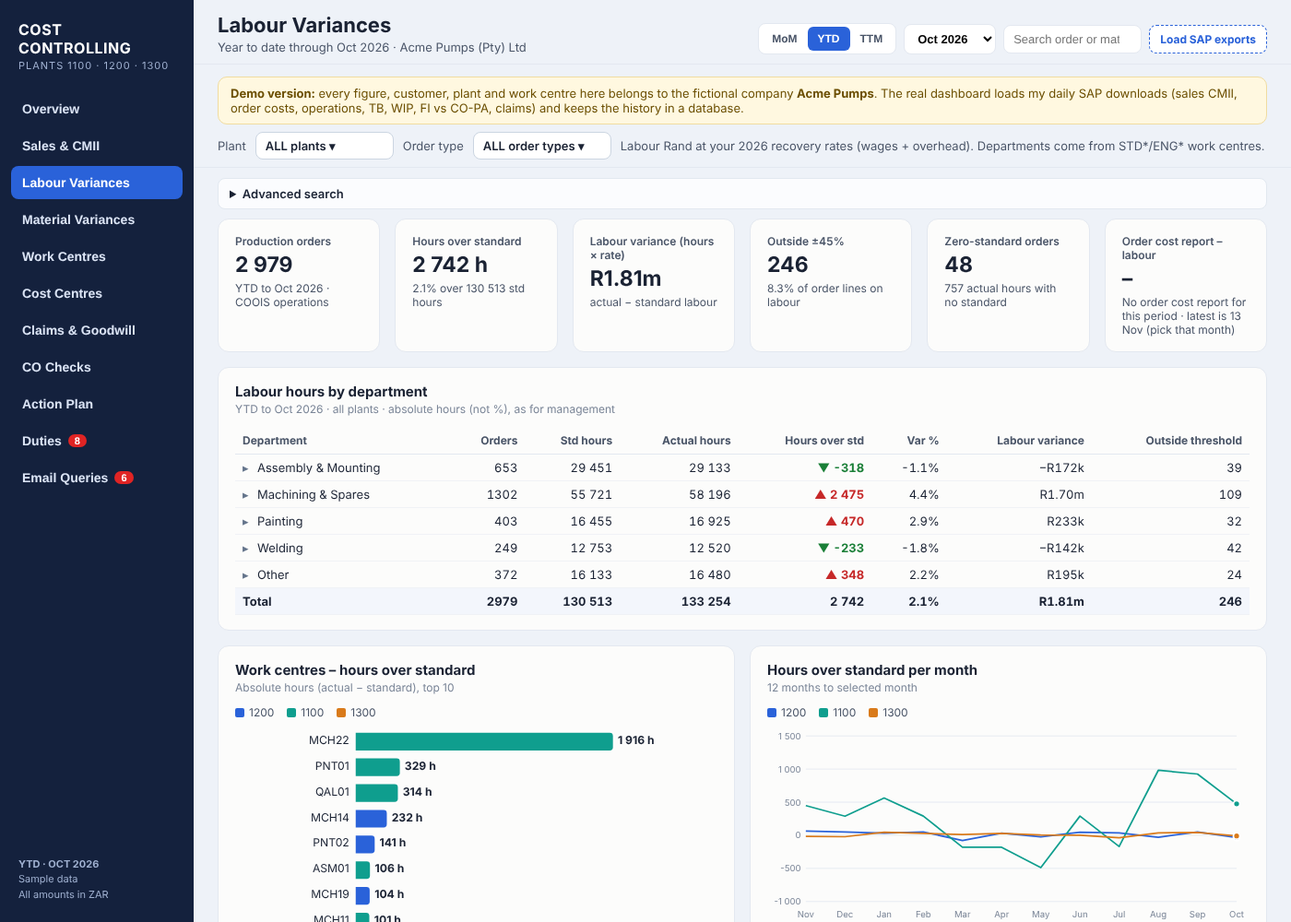
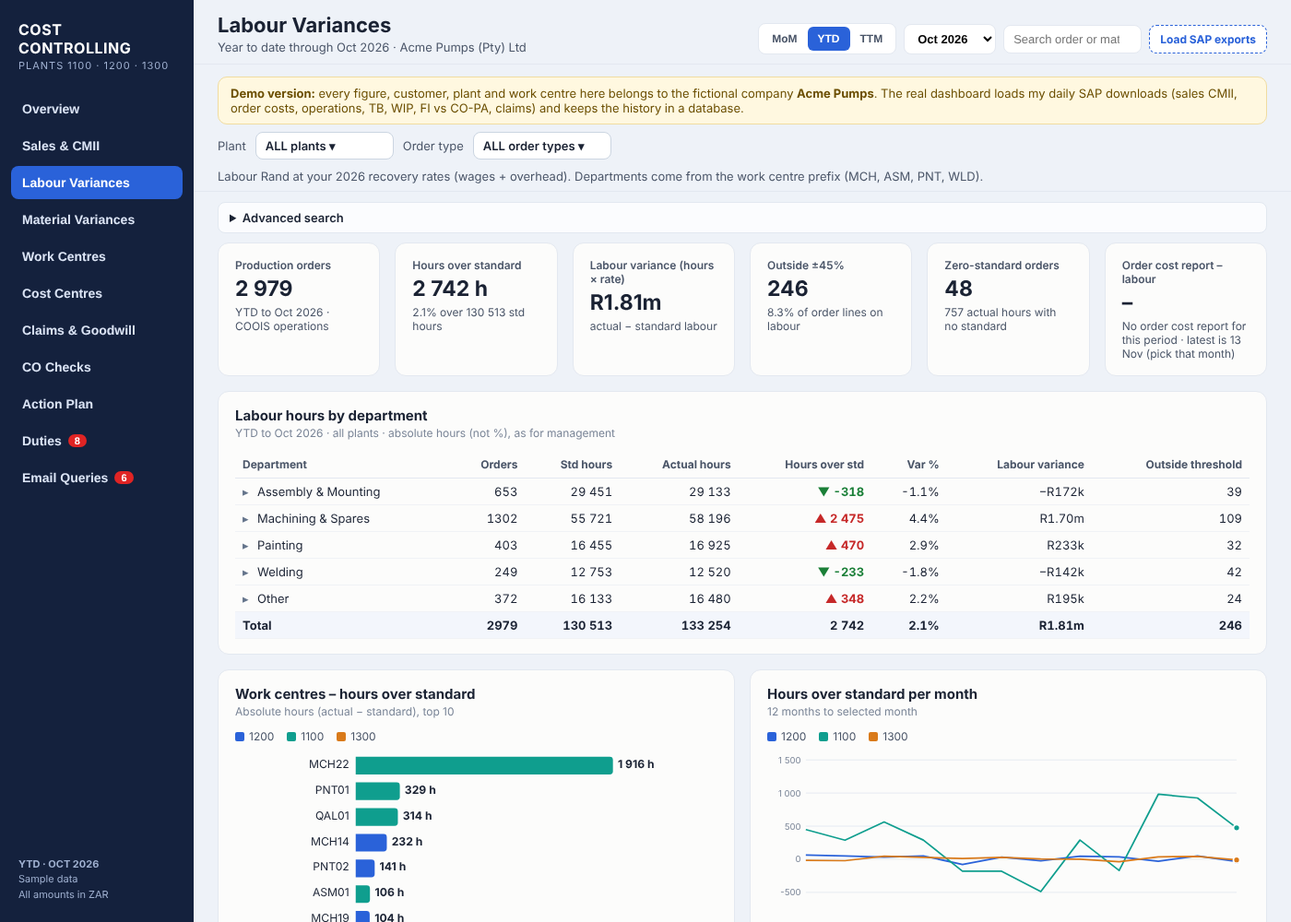
Add files via upload

diff --git a/index.html b/index.html
@@ -1,0 +1,268 @@
+<!DOCTYPE html>
+<html lang="en">
+<head>
+<meta charset="utf-8">
+<meta name="viewport" content="width=device-width, initial-scale=1">
+<title>Aphelele Makhathini | Cost Accounting Automation Portfolio</title>
+<meta name="description" content="SAP-to-Excel automation for cost accounting: production variances, warranty claims, BOM costing, sales margin and a live cost controlling dashboard. All data fictional.">
+<link rel="preconnect" href="https://fonts.googleapis.com">
+<link href="https://fonts.googleapis.com/css2?family=Inter:wght@400;500;600;700;800&display=swap" rel="stylesheet">
+<style>
+:root{--navy:#14213d;--navy2:#1f3a5f;--blue:#2a62d9;--teal:#0f9e8e;--ink:#1a2233;--mute:#5b6678;--line:#e3e8f0;--bg:#f5f7fb;--card:#fff}
+*{box-sizing:border-box;margin:0;padding:0}
+html{scroll-behavior:smooth}
+body{font-family:Inter,system-ui,-apple-system,Segoe UI,Roboto,sans-serif;color:var(--ink);background:var(--bg);line-height:1.6}
+a{color:var(--blue);text-decoration:none}
+.wrap{max-width:1120px;margin:0 auto;padding:0 24px}
+nav{position:sticky;top:0;z-index:10;background:rgba(20,33,61,.96);backdrop-filter:blur(6px)}
+nav .wrap{display:flex;align-items:center;justify-content:space-between;height:60px}
+nav .brand{color:#fff;font-weight:700;letter-spacing:.2px}
+nav .links a{color:#c9d3e6;margin-left:22px;font-size:14px;font-weight:500}
+nav .links a:hover{color:#fff}
+header.hero{background:linear-gradient(135deg,var(--navy) 0%,var(--navy2) 60%,#24508f 100%);color:#fff;padding:84px 0 72px}
+.hero .eyebrow{text-transform:uppercase;letter-spacing:2px;font-size:12.5px;color:#9fb4d9;font-weight:600}
+.hero h1{font-size:46px;line-height:1.1;font-weight:800;margin:14px 0 10px}
+.hero .role{font-size:19px;color:#dbe4f5;font-weight:500}
+.hero p.lead{max-width:720px;margin-top:22px;font-size:17px;color:#d0daee}
+.badges{display:flex;flex-wrap:wrap;gap:8px;margin-top:26px}
+.badge{background:rgba(255,255,255,.1);border:1px solid rgba(255,255,255,.18);color:#e8eefb;font-size:13px;padding:6px 12px;border-radius:999px}
+.ctas{display:flex;flex-wrap:wrap;gap:12px;margin-top:34px}
+.btn{display:inline-flex;align-items:center;gap:8px;padding:12px 20px;border-radius:10px;font-weight:600;font-size:15px;transition:transform .15s,box-shadow .15s}
+.btn:hover{transform:translateY(-1px)}
+.btn.primary{background:#fff;color:var(--navy);box-shadow:0 6px 20px rgba(0,0,0,.18)}
+.btn.ghost{border:1px solid rgba(255,255,255,.35);color:#fff}
+.btn.dark{background:var(--navy);color:#fff}
+.btn.line{border:1px solid var(--line);color:var(--ink);background:#fff}
+.stats{display:grid;grid-template-columns:repeat(4,1fr);gap:16px;margin-top:-34px;position:relative}
+.stat{background:var(--card);border:1px solid var(--line);border-radius:14px;padding:18px 20px;box-shadow:0 8px 24px rgba(20,33,61,.06)}
+.stat b{display:block;font-size:23px;font-weight:800;color:var(--navy)}
+.stat span{font-size:13.5px;color:var(--mute)}
+section{padding:72px 0 8px}
+.sh{display:flex;align-items:end;justify-content:space-between;gap:20px;margin-bottom:26px}
+.sh h2{font-size:30px;font-weight:800;color:var(--navy)}
+.sh p{color:var(--mute);max-width:620px}
+.kicker{color:var(--blue);font-weight:700;font-size:13px;letter-spacing:1.5px;text-transform:uppercase;margin-bottom:6px}
+.feature{display:grid;grid-template-columns:1.25fr 1fr;gap:30px;background:var(--card);border:1px solid var(--line);border-radius:18px;padding:26px;box-shadow:0 10px 30px rgba(20,33,61,.07)}
+.feature img{width:100%;border-radius:12px;border:1px solid var(--line);display:block}
+.feature h3{font-size:24px;color:var(--navy);margin-bottom:8px}
+.feature ul{list-style:none;margin:16px 0 22px}
+.feature li{padding:6px 0 6px 26px;position:relative;font-size:15px}
+.feature li:before{content:"";position:absolute;left:4px;top:13px;width:8px;height:8px;border-radius:2px;background:var(--teal)}
+.thumbs{display:grid;grid-template-columns:repeat(3,1fr);gap:10px;margin-top:12px}
+.thumbs img{border-radius:8px}
+.grid{display:grid;grid-template-columns:repeat(2,1fr);gap:22px}
+.card{background:var(--card);border:1px solid var(--line);border-radius:16px;overflow:hidden;display:flex;flex-direction:column;box-shadow:0 6px 18px rgba(20,33,61,.05);transition:box-shadow .2s,transform .2s}
+.card:hover{box-shadow:0 14px 34px rgba(20,33,61,.11);transform:translateY(-2px)}
+.card .shot{height:210px;overflow:hidden;background:#eef2f8;border-bottom:1px solid var(--line)}
+.card .shot img{width:100%;height:100%;object-fit:cover;object-position:top left;display:block}
+.card .body{padding:20px 22px 22px;display:flex;flex-direction:column;flex:1}
+.card .num{font-size:12.5px;font-weight:700;color:var(--blue);letter-spacing:1px}
+.card h3{font-size:20px;color:var(--navy);margin:2px 0 10px}
+.card .lbl{font-size:12px;font-weight:700;text-transform:uppercase;letter-spacing:.8px;color:var(--mute);margin-top:10px}
+.card p{font-size:14.5px}
+.card ul{margin:4px 0 0 18px;font-size:14.5px}
+.card .result{margin-top:14px;background:#eefaf7;border:1px solid #c7ece4;color:#0b6b60;border-radius:10px;padding:10px 12px;font-size:14px}
+.tags{display:flex;flex-wrap:wrap;gap:6px;margin-top:14px}
+.tag{font-size:12px;background:#eef2f8;color:#36445c;padding:3px 9px;border-radius:6px;font-weight:500}
+.card .links{margin-top:auto;padding-top:16px;display:flex;gap:10px}
+.card .links a{font-size:14px;font-weight:600}
+.skills{display:grid;grid-template-columns:repeat(3,1fr);gap:18px}
+.skill{background:var(--card);border:1px solid var(--line);border-radius:14px;padding:20px}
+.skill h4{color:var(--navy);font-size:16px;margin-bottom:8px}
+.skill p{font-size:14.5px;color:#3b4659}
+.note{margin-top:60px;background:#fff7e0;border:1px solid #f1dc9c;border-radius:14px;padding:18px 22px;font-size:14.5px;color:#5a4a12}
+footer{margin-top:60px;padding:30px 0 40px;color:var(--mute);font-size:14px;border-top:1px solid var(--line)}
+footer .wrap{display:flex;justify-content:space-between;flex-wrap:wrap;gap:12px}
+@media (max-width:860px){
+ .hero h1{font-size:34px}.stats{grid-template-columns:repeat(2,1fr)}.feature{grid-template-columns:1fr}
+ .grid,.skills{grid-template-columns:1fr}nav .links a{margin-left:14px}.sh{display:block}.sh p{margin-top:6px}
+}
+@media (max-width:520px){nav .links a:not(.keep){display:none}}
+</style>
+</head>
+<body>
+<nav><div class="wrap">
+ <a class="brand" href="#">Aphelele Makhathini</a>
+ <div class="links"><a href="#dashboard">Dashboard</a><a href="#projects">Projects</a><a href="#skills">Skills</a>
+ <a class="keep" href="https://github.com/aphelelemakhathini21-beep/Cost-Accounting-Portfolio">GitHub</a></div>
+</div></nav>
+
+<header class="hero"><div class="wrap">
+ <div class="eyebrow">Cost Accounting · Controlling · Automation</div>
+ <h1>Aphelele Makhathini</h1>
+ <div class="role">Cost Accountant Controller &nbsp;|&nbsp; SAP · Excel VBA · AI</div>
+ <p class="lead">I work in manufacturing finance, and much of my month runs on SAP exports. I build tools that turn those exports into reports production, management and Industrial Engineering can act on: variance analysis, warranty claims, product costing and margin reporting, from raw download to finished report. Work that used to take hours, or a whole day, now runs in minutes.</p>
+ <div class="badges">
+  <span class="badge">BCom Accounting (UJ)</span><span class="badge">FMVA</span><span class="badge">BIDA</span><span class="badge">FPAP</span>
+  <span class="badge">Google Data Analytics</span><span class="badge">RE5</span><span class="badge">Xero</span>
+ </div>
+ <div class="ctas">
+  <a class="btn primary" href="06-cost-controlling-dashboard/">▶&nbsp; Launch the live dashboard</a>
+  <a class="btn ghost" href="#projects">See the projects</a>
+  <a class="btn ghost" href="https://github.com/aphelelemakhathini21-beep/Cost-Accounting-Portfolio">View the code</a>
+ </div>
+</div></header>
+
+<div class="wrap">
+ <div class="stats">
+  <div class="stat"><b>1 day → 10 min</b><span>production variance analysis</span></div>
+  <div class="stat"><b>4 h → 5 min</b><span>monthly claims reporting</span></div>
+  <div class="stat"><b>2 h → 10 min</b><span>sales report, per market area</span></div>
+  <div class="stat"><b>5 min</b><span>SAP script downloads every report the dashboard needs</span></div>
+ </div>
+
+ <section id="dashboard">
+  <div class="sh"><div><div class="kicker">Featured</div><h2>Cost Controlling Dashboard</h2></div>
+  <p>One page for the whole month: it reads the daily SAP downloads directly and shows where the month stands and what needs attention.</p></div>
+  <div class="feature">
+   <div>
+    <a href="06-cost-controlling-dashboard/"><img src="06-cost-controlling-dashboard/screenshots/1-overview.png" alt="Dashboard overview"></a>
+    <div class="thumbs">
+     <img src="06-cost-controlling-dashboard/screenshots/4-work-centres.png" alt="Work centres tab">
+     <img src="06-cost-controlling-dashboard/screenshots/5-claims-goodwill.png" alt="Claims and goodwill tab">
+     <img src="06-cost-controlling-dashboard/screenshots/6-co-checks.png" alt="CO checks tab">
+    </div>
+   </div>
+   <div>
+    <h3>Every report in one place</h3>
+    <p>HTML and JavaScript, with SheetJS to read Excel and text files in the browser. Drop in the morning's downloads and it works out which file is which.</p>
+    <ul>
+     <li>Sales and CMII by market area, channel and segment, with losses and partial invoicing flagged</li>
+     <li>Labour and material variances by department and work centre</li>
+     <li>Work centre efficiency, with machining vs setup hours by week</li>
+     <li>Warranty and goodwill claims against turnover</li>
+     <li>CO checks: invoices hanging between FI and CO-PA, and TB vs WIP</li>
+     <li>Month-end duties with due-date reminders, plus an email query tracker</li>
+     <li>Commentary drafted automatically from the numbers</li>
+     <li>All of its SAP exports are downloaded by a 5-minute SAP GUI script</li>
+    </ul>
+    <a class="btn dark" href="06-cost-controlling-dashboard/">▶&nbsp; Open the live demo</a>
+   </div>
+  </div>
+ </section>
+
+ <section id="projects">
+  <div class="sh"><div><div class="kicker">Automation</div><h2>Excel VBA projects</h2></div>
+  <p>Each project contains the macro, a fake SAP-style export to run it on (the before), the workbook it produces (the after) and a write-up.</p></div>
+  <div class="grid">
+
+   <article class="card">
+    <div class="shot"><img src="01-production-variances/output/2-stage2-popup-1-setup.png" alt="Hours variance overview"></div>
+    <div class="body">
+     <div class="num">01</div><h3>Production Variances</h3>
+     <div class="lbl">Problem</div>
+     <p>Hundreds of orders close with labour and material off standard. Management needs to know which orders matter, and the workshop needs to know which operation on which machine caused it.</p>
+     <div class="lbl">What I built</div>
+     <ul><li>Stage 1 flags orders outside ±45% labour and ±20% material</li>
+     <li>Stage 2 compares planned vs confirmed hours per operation, with department tabs and favourable variances</li>
+     <li>A live overview with a plant slicer and dynamic-array Top 5 and Top 10 tables. Remarks survive a re-run.</li></ul>
+     <div class="result"><b>A whole day of compiling → 10 minutes.</b> Demo: 80 labour and 63 material orders flagged. MCH19 runs +2.9 h over on setup per operation, which points to a missing setup standard.</div>
+     <div class="tags"><span class="tag">VBA</span><span class="tag">LET / FILTER / SORTBY</span><span class="tag">Slicers</span><span class="tag">Pivot tables</span></div>
+     <div class="links"><a href="https://github.com/aphelelemakhathini21-beep/Cost-Accounting-Portfolio/tree/main/01-production-variances">Code &amp; data →</a></div>
+    </div>
+   </article>
+
+   <article class="card">
+    <div class="shot"><img src="02-warranty-claims/output/1-claims-register-october-posted.png" alt="Claims register after posting October"></div>
+    <div class="body">
+     <div class="num">02</div><h3>Warranty &amp; Goodwill Claims</h3>
+     <div class="lbl">Problem</div>
+     <p>A messy monthly claims export (outline blanks, subtotals mixed with detail lines) has to be posted into a year-to-date register without double-counting anything.</p>
+     <div class="lbl">What I built</div>
+     <ul><li>Step 1 cleans the export and builds a one-line-per-order summary</li>
+     <li>Step 2 splits warranty from goodwill, updates existing orders and inserts new ones above the Total row</li>
+     <li>It rebuilds the YTD and total formulas, moves the graph to the new month, and is safe to re-run</li></ul>
+     <div class="result"><b>4 hours of compiling → 5 minutes.</b> Demo: 18 orders, R566 069 posted. 4 updated and 8 new warranty orders, 2 updated and 4 new goodwill orders.</div>
+     <div class="tags"><span class="tag">VBA</span><span class="tag">Data cleaning</span><span class="tag">Ledgers</span></div>
+     <div class="links"><a href="https://github.com/aphelelemakhathini21-beep/Cost-Accounting-Portfolio/tree/main/02-warranty-claims">Code &amp; data →</a></div>
+    </div>
+   </article>
+
+   <article class="card">
+    <div class="shot"><img src="03-bom-costing/output/1-bom-built.png" alt="Costed BOM built from CK11N"></div>
+    <div class="body">
+     <div class="num">03</div><h3>Costed BOM from CK11N</h3>
+     <div class="lbl">Problem</div>
+     <p>A cost estimate export shows its hierarchy only by indentation, with numbers as text. Costing and pricing questions need it as a clean structure that adds up.</p>
+     <div class="lbl">What I built</div>
+     <ul><li>Works out each line's depth from the layout and reads cost fields from the end of the row, so it handles BOMs of any depth</li>
+     <li>Live SUM and Price × Qty formulas across 8 cost-component columns, with collapsible levels</li>
+     <li>Checks every rollup against SAP's own totals</li></ul>
+     <div class="result">Demo: three pumps (R44 195 to R110 906), and every rollup matched SAP.</div>
+     <div class="tags"><span class="tag">VBA</span><span class="tag">Hierarchies of any depth</span><span class="tag">Product costing</span></div>
+     <div class="links"><a href="https://github.com/aphelelemakhathini21-beep/Cost-Accounting-Portfolio/tree/main/03-bom-costing">Code &amp; data →</a></div>
+    </div>
+   </article>
+
+   <article class="card">
+    <div class="shot"><img src="04-sales-margin/output/3-popup-3-margins.png" alt="Sales margin summary"></div>
+    <div class="body">
+     <div class="num">04</div><h3>Invoiced Sales Margin (CMII)</h3>
+     <div class="lbl">Problem</div>
+     <p>Management wants losses, margins by market area and segment, and progress against the month's target. Meanwhile, partial invoicing creates fake losses that distort every average.</p>
+     <div class="lbl">What I built</div>
+     <ul><li>A CMII table per order, with COGS built from 9 cost lines and internal adjustments excluded</li>
+     <li>Outliers (COGS 1000%+ of sales) left out of the averages</li>
+     <li>Five summary pop-ups, a hidden summary sheet with charts, and the rand needed per working day</li></ul>
+     <div class="result"><b>2 hours per market area → 10 minutes.</b> Demo: 240 orders, R47.8m invoiced, 8 losses, 79.7% of the monthly target.</div>
+     <div class="tags"><span class="tag">VBA</span><span class="tag">Margin analysis</span><span class="tag">Charts</span></div>
+     <div class="links"><a href="https://github.com/aphelelemakhathini21-beep/Cost-Accounting-Portfolio/tree/main/04-sales-margin">Code &amp; data →</a></div>
+    </div>
+   </article>
+
+   <article class="card">
+    <div class="shot"><img src="05-cost-element-breakdown/output/1-cost-element-detail.png" alt="Cost element breakdown"></div>
+    <div class="body">
+     <div class="num">05</div><h3>Sales Order Cost Breakdown</h3>
+     <div class="lbl">Problem</div>
+     <p>When an order's cost looks wrong, the answer is buried in a hard-to-read cost report: totals sit below their lines, credits carry trailing minus signs, and some totals include lines the report doesn't show.</p>
+     <div class="lbl">What I built</div>
+     <ul><li>Groups lines under each cost element with SUM subtotals and a grand total</li>
+     <li>Adds a reconciling line wherever a reported total is more than its visible lines</li>
+     <li>Shows the source report's own total underneath as a check</li></ul>
+     <div class="result"><b>30 minutes per request → 3 minutes.</b> Demo: 6 cost elements, a R312.40 reconciling line, and a grand total that agrees to the report.</div>
+     <div class="tags"><span class="tag">VBA</span><span class="tag">Reconciliation</span><span class="tag">Order costing</span></div>
+     <div class="links"><a href="https://github.com/aphelelemakhathini21-beep/Cost-Accounting-Portfolio/tree/main/05-cost-element-breakdown">Code &amp; data →</a></div>
+    </div>
+   </article>
+
+   <article class="card">
+    <div class="shot"><img src="06-cost-controlling-dashboard/screenshots/3-labour-variances.png" alt="Dashboard labour variances"></div>
+    <div class="body">
+     <div class="num">06</div><h3>Cost Controlling Dashboard</h3>
+     <div class="lbl">Problem</div>
+     <p>The daily and month-end picture was spread across a dozen downloads and workbooks.</p>
+     <div class="lbl">What I built</div>
+     <ul><li>A single-page web dashboard that reads the SAP downloads directly</li>
+     <li>11 tabs with month, YTD and 12-month views, plant, order type and market area filters, and an order or material search</li>
+     <li>Duties and email query tracking built in</li>
+     <li>A SAP GUI script that downloads every report the dashboard needs in 5 minutes</li></ul>
+     <div class="result"><b>Every SAP export it needs is downloaded by a 5-minute SAP script.</b> Runs live in the browser on Acme Pumps demo data.</div>
+     <div class="tags"><span class="tag">JavaScript</span><span class="tag">SheetJS</span><span class="tag">Data visualisation</span></div>
+     <div class="links"><a href="06-cost-controlling-dashboard/">Live demo →</a><a href="https://github.com/aphelelemakhathini21-beep/Cost-Accounting-Portfolio/tree/main/06-cost-controlling-dashboard">Code →</a></div>
+    </div>
+   </article>
+
+  </div>
+ </section>
+
+ <section id="skills">
+  <div class="sh"><div><div class="kicker">How I work</div><h2>What runs through every project</h2></div></div>
+  <div class="skills">
+   <div class="skill"><h4>Reading messy ERP exports</h4><p>Outline blanks stored as empty text, numbers as text in SAP formats (1.234,56 · 1 234,56 · trailing minus), title lines, encodings and hierarchies of any depth.</p></div>
+   <div class="skill"><h4>Rules management can follow</h4><p>Clear thresholds (±45% labour, ±20% material, 2 h and 1 h operation limits), control gaps reported separately, and outliers kept out of averages.</p></div>
+   <div class="skill"><h4>Workbooks that stay correct</h4><p>Formulas rebuilt by code, nothing tied to a fixed column letter, re-running a month replaces it instead of doubling it, and typed remarks are kept.</p></div>
+   <div class="skill"><h4>Live Excel</h4><p>LET, FILTER and SORTBY dynamic arrays, slicers driving named ranges, pivot tables, tables with total rows, and charts built from code.</p></div>
+   <div class="skill"><h4>Works on any regional settings</h4><p>Formulas, conditional formats and number parsing written so they work on comma-decimal and dot-decimal PCs.</p></div>
+   <div class="skill"><h4>AI-assisted development</h4><p>I use AI to design, build and test automation faster, and to create realistic demo data. The dashboard is a JavaScript web app.</p></div>
+  </div>
+  <div class="note"><b>About the data:</b> everything in this portfolio, including "Acme Pumps", its plants, customers, work centres, materials and every figure, is fictional and was generated for demonstration. The macros are my own work, with employer-specific names, codes and settings replaced.</div>
+ </section>
+</div>
+
+<footer><div class="wrap">
+ <span>© 2026 Aphelele Makhathini</span>
+ <span><a href="https://github.com/aphelelemakhathini21-beep/Cost-Accounting-Portfolio">Source on GitHub</a></span>
+</div></footer>
+</body>
+</html>

diff --git a/README.md b/README.md
@@ -13,6 +13,15 @@ I'm a Cost Accountant Controller in a pump and valve manufacturer. My month runs
 | 05 | [Cost element breakdown](05-cost-element-breakdown/) | Actual costs report → grouped cost elements with reconciling lines |
 | 06 | [Cost Controlling Dashboard](06-cost-controlling-dashboard/) | All the daily SAP downloads → one interactive dashboard (demo with screenshots) |
 
+## Time saved
+| Task | Before | After |
+|---|---|---|
+| Production variance analysis | A whole day of compiling | 10 minutes |
+| Monthly claims reporting | 4 hours | 5 minutes |
+| Sales report | 2 hours per market area | 10 minutes |
+| Sales order cost breakdown for a requester | 30 minutes | 3 minutes |
+| SAP downloads for the dashboard | Run one by one | One 5-minute SAP script |
+
 ## Techniques used across the projects
 - **Parsing messy ERP exports:** outline blanks stored as empty text, numbers as text in SAP's format (`1.234,56`, `1 234,56`, trailing minus), title lines, encodings, variable-depth hierarchies
 - **Rules management can follow:** ±45 % labour / ±20 % material bands, 2-hour / 1-hour / 50 % operation thresholds, partial-invoicing outliers left out of margin averages
@@ -27,4 +36,4 @@ I'm a Cost Accountant Controller in a pump and valve manufacturer. My month runs
 
 The README for each project lists the results you should get on the demo data.
 
-**Certifications:** FMVA · FPAP · Google Data Analytics · BCom Accounting (UJ)
+**Certifications:** FMVA · BIDA · FPAP · Google Data Analytics · BCom Accounting (UJ)

diff --git a/05-cost-element-breakdown/README.md b/05-cost-element-breakdown/README.md
@@ -1,4 +1,4 @@
-# 05: Actual Cost Element Breakdown
+# 05: Sales Order Cost Breakdown (Actual Cost Elements)
 
 ## The problem
 When a sales order's cost looks wrong, the answer is in the "actual costs, expanded view" report: every cost element with its materials, activities and settlement credits. As a text export, it's hard to read. Element totals sit *below* their lines, IDs and descriptions share one cell, credits carry a trailing minus, quantities and units are mixed together ("14,4 H"), and some element totals include lines the report doesn't show.
@@ -13,6 +13,8 @@ When a sales order's cost looks wrong, the answer is in the "actual costs, expan
 
 **Note:** cost elements don't always mean the same thing from one order to the next, so the output is where the analysis starts, not the answer.
 
+**Time saved:** a sales order cost breakdown is ready for whoever requested it in about 3 minutes, instead of 30.
+
 ## Expected results on the demo data
 - **6 cost elements** processed
 - **Purchased parts (410000)** gets a reconciling adjustment of **R312.40**
@@ -21,6 +23,8 @@ When a sales order's cost looks wrong, the answer is in the "actual costs, expan
 
 ## After
 Results on the demo data: 6 cost elements, a **R312.40** reconciling adjustment on Purchased parts, and a grand total of **R112 443.72**, which agrees to the source report.
+
+![Cost element detail sheet](output/1-cost-element-detail.png)
 
 Output workbook: `output/Actual_Costs_SO30051877_output.xlsm`
 

diff --git a/02-warranty-claims/README.md b/02-warranty-claims/README.md
@@ -21,6 +21,8 @@ Every month, the claims costs export comes out of SAP in a grouped outline view.
 - Moves the **GRAPH** sheet's current-month cells to the new month
 - **Safe to re-run:** running the same month again replaces the amounts instead of doubling them
 
+**Time saved:** about 4 hours of compiling each month now takes 5 minutes of the code running.
+
 ## Expected results on the demo data
 - Claims Summary: **18 orders**, TOTAL **R566,068.68**
 - Ledger pop-up: **CLAIMS 2026: 4 updated, 8 new** · **GOODWILL 2026: 2 updated, 4 new**
@@ -28,6 +30,8 @@ Every month, the claims costs export comes out of SAP in a grouped outline view.
 
 ## After
 Results on the demo data: Claims Summary **18 orders, R566 068.68**. CLAIMS 2026 went from 22 to **30** orders (4 updated, 8 new) and GOODWILL 2026 from 9 to **13** (2 updated, 4 new). The October totals (R377 104.59 + R188 964.09) agree to the export, and the GRAPH cells moved to October.
+
+![Claims register after posting October](output/1-claims-register-october-posted.png)
 
 Output workbooks: `output/Claims_Export_Oct2026_output.xlsm`, `output/Claims_and_Goodwill_2026_output.xlsm`
 

diff --git a/04-sales-margin/README.md b/04-sales-margin/README.md
@@ -17,6 +17,8 @@ Each month, management wants to know: which orders made a loss, which market are
   4. Low (< 10 %) and high (> 60 %) margins by market area
   5. **Target progress**: invoiced vs the monthly target, balance, working days left and **rand needed per working day**. This is skipped if the data spans more than one month.
 
+**Time saved:** about 2 hours per market area now takes 10 minutes of the code running.
+
 ## Expected results on the demo data
 - **240 orders** (2 internal adjustments excluded), sales **R47,803,456**
 - **8** losses · **7** zero-revenue orders · **4** zero-cost-and-zero-sales orders · **3** no-cost orders

diff --git a/01-production-variances/README.md b/01-production-variances/README.md
@@ -23,6 +23,8 @@ Every month, hundreds of production orders close with actual labour and material
 - Pop-ups summarise the period: worst machines for setup and machine time, the worst single operations, and results by order type
 - **Weekly** uses the last 14 working days (Mon–Sat). **Monthly** uses the last 30 calendar days. Both run the same module.
 
+**Time saved:** a whole day of compiling now takes about 10 minutes of the code running.
+
 ## Expected results on the demo data
 | Stage | Result |
 |---|---|

diff --git a/06-cost-controlling-dashboard/README.md b/06-cost-controlling-dashboard/README.md
@@ -18,5 +18,7 @@ A single-page dashboard (HTML + JavaScript, with SheetJS to read Excel and text 
 
 The real version keeps its history in a database and checks my Outlook inbox every weekday morning.
 
+**Time saved:** every SAP export the dashboard reads is downloaded by a SAP GUI script in about 5 minutes.
+
 ## Demo
 `index.html` is the demo build: open it in any browser. **Every figure, customer, plant and work centre is fictional (Acme Pumps).** Screenshots are in `screenshots/`.

diff --git a/03-bom-costing/README.md b/03-bom-costing/README.md
@@ -13,7 +13,6 @@ A CK11N cost estimate (with quantity structure) export is hard to work with. The
 - Colours each level, groups rows into **+/- outlines** (parent above children) and freezes the header
 - Parses numbers in any regional format (`1 234,56`, `1,234.56`, `1234,56`)
 
-Before this VBA version, I built the same tool in Python (`sap_bom_to_excel.py`).
 
 ## Expected results on the demo data
 | File | Total value | Message |
